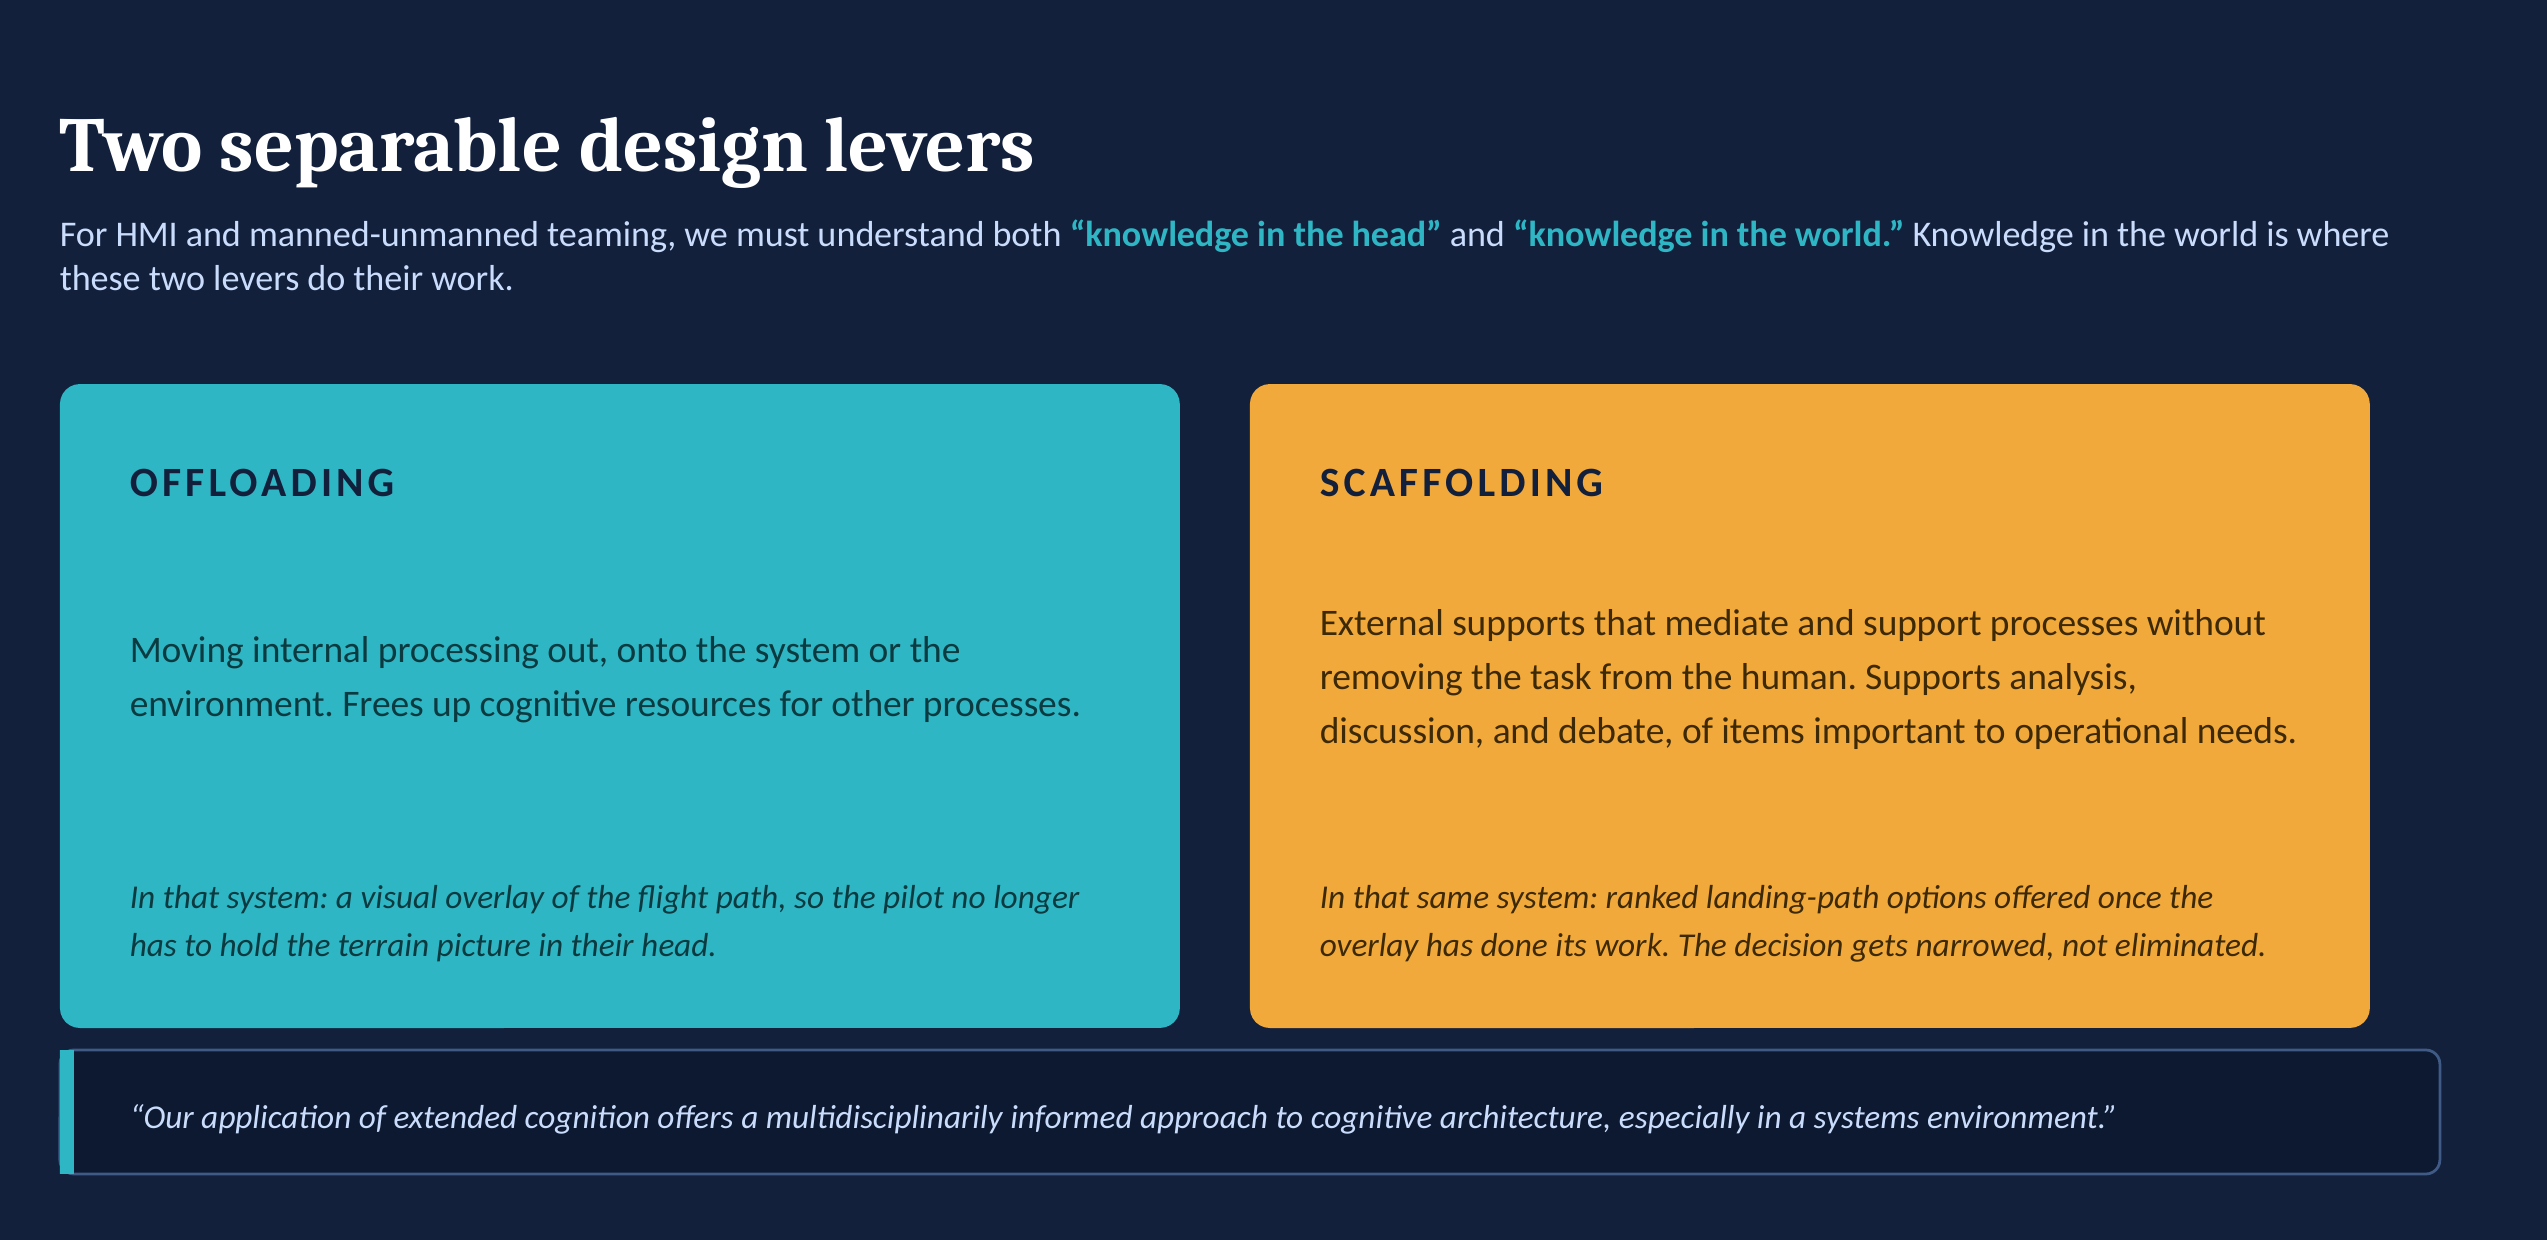
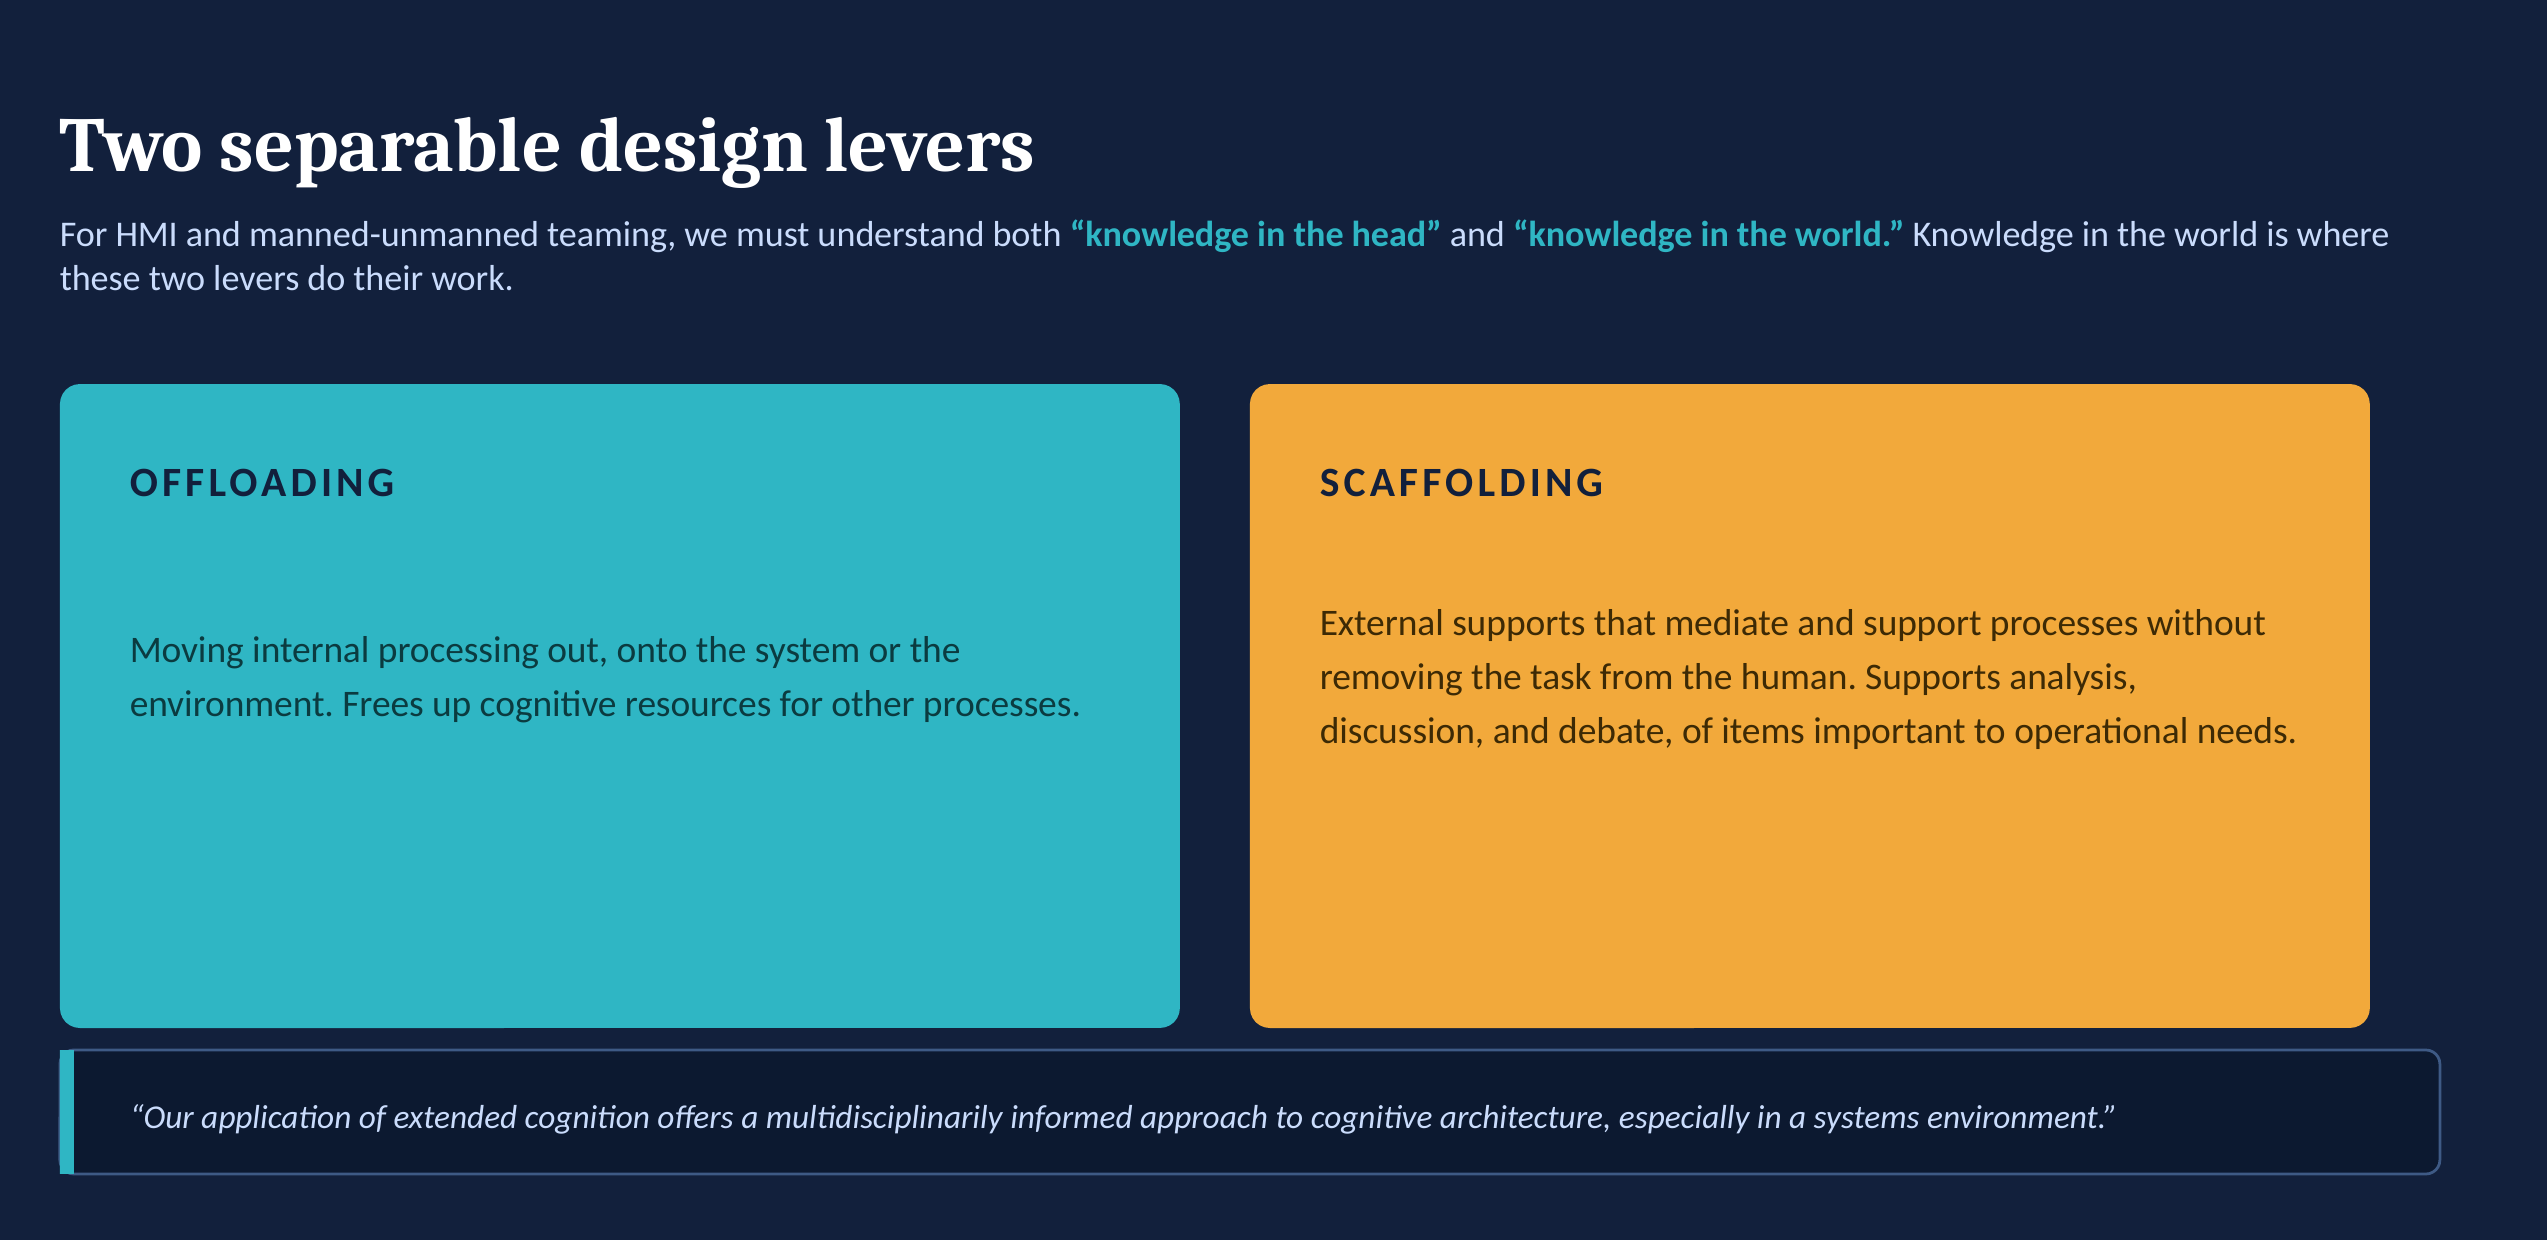
Site fixes from review: accessibility, slide, photos, triathlon post
- Phone menu: white focus ring, closes when focus leaves it
- Lockheed animation: Skip control while playing
- Remove two system-specific lines from the design levers slide
- Remove a leftover draft comment on Experience
- Page titles include the site name; aria-current on nav links
- Quieter "On this page" bar for screen readers; GitHub spelling
- Resize homepage and avatar photos (4.6 MB and 2.6 MB to under 150 KB)
- Stoic Cycle list: "+" marker in line with post titles
- Triathlon post: three typos fixed, spoiler is a keyboard-usable button

Claude-Session: https://claude.ai/code/session_01Be8Di5gqHytWBQBqRkoQzy

Changed region(s): [[0.5273, 0.7048, 0.8685, 0.7661], [0.062, 0.7048, 0.4342, 0.7661]]

diff --git a/the-stoic-cycle/index.html b/the-stoic-cycle/index.html
@@ -100,9 +100,13 @@ permalink: /the-stoic-cycle/
   .stoic-archive .post-entry summary {
     cursor: pointer;
     list-style: none;
-    display: flex;
-    flex-direction: column;
-    gap: 0.15rem;
+    display: grid;
+    grid-template-columns: 1.4rem 1fr;
+    row-gap: 0.15rem;
+    align-items: baseline;
+  }
+  .stoic-archive .post-entry summary > * {
+    grid-column: 2;
   }
   .stoic-archive .post-entry summary::-webkit-details-marker {
     display: none;
@@ -126,7 +130,6 @@ permalink: /the-stoic-cycle/
   .stoic-archive .post-date {
     font-size: 0.72rem;
     color: var(--text-alt-color);
-    margin-left: 1.4rem;
   }
   .stoic-archive .post-summary {
     font-size: 0.85rem;

diff --git a/_includes/head.html b/_includes/head.html
@@ -3,7 +3,7 @@
   <meta http-equiv="X-UA-Compatible" content="IE=edge">
   <meta name="viewport" content="width=device-width, initial-scale=1">
 
-  <title>{% if page.title %}{{ page.title }}{% else %}{{ site.data.settings.title }}{% endif %}</title>
+  <title>{% if page.title and page.url != "/" %}{{ page.title }} – {{ site.data.settings.title }}{% else %}{{ site.data.settings.title }}{% endif %}</title>
   <meta name='description' content='{% if page.description %}{{ page.description | strip_html | strip_newlines | truncate: 160 }}{% else %}{{ site.data.settings.description }}{% endif %}'>
 
   <link rel="canonical" href="{{ page.url | replace:'index.html','' | absolute_url }}">

diff --git a/js/common.js b/js/common.js
@@ -49,6 +49,13 @@ document.addEventListener("DOMContentLoaded", function() {
     menuToggle.setAttribute("aria-expanded", menuList.classList.contains("is-visible") ? "true" : "false");
   }
 
+  // Close the phone menu when keyboard focus moves outside it
+  document.addEventListener("focusin", function (e) {
+    if (menuList.classList.contains("is-visible") && !menuList.contains(e.target) && !menuToggle.contains(e.target)) {
+      menu();
+    }
+  });
+
   // Close the phone menu with Escape and return focus to the menu button
   document.addEventListener("keydown", function (e) {
     if (e.key === "Escape" && menuList.classList.contains("is-visible")) {

diff --git a/css/main.scss b/css/main.scss
@@ -147,12 +147,23 @@ Spoiler Tagging
 ======================= */
 
 .spoiler {
-  background-color: black;
-  color: black;
+  /* A real button now, so keyboard users can reveal it (Oct 2026) */
+  appearance: none;
+  border: 0;
+  margin: 0;
+  font: inherit;
+  line-height: inherit;
+  background-color: var(--heading-font-color);
+  color: var(--heading-font-color);
   cursor: pointer;
   border-radius: 3px;
   padding: 0 4px;
   transition: all 0.3s ease;
+}
+
+.spoiler:focus-visible {
+  outline: 2px solid var(--brand-color);
+  outline-offset: 2px;
 }
 
 .spoiler.revealed {

diff --git a/_includes/header.html b/_includes/header.html
@@ -34,7 +34,7 @@
               </li>
               {% else %}
               <li class="nav__item">
-                <a href="{{ item.url | relative_url }}" class="nav__link{% if page.url == item.url %} active-link{% endif %}">{{ item.title }}</a>
+                <a href="{{ item.url | relative_url }}" class="nav__link{% if page.url == item.url %} active-link{% endif %}"{% if page.url == item.url %} aria-current="page"{% endif %}>{{ item.title }}</a>
               </li>
               {% endif %}
               {% endfor %}

diff --git a/_includes/page-nav.html b/_includes/page-nav.html
@@ -8,7 +8,7 @@
   <div class="pagenav__bar">
     <button type="button" class="pagenav__toggle" aria-expanded="false" aria-controls="pagenav-list">
       <span class="pagenav__kicker">On this page</span>
-      <span class="pagenav__current" aria-live="polite"></span>
+      <span class="pagenav__current"></span>
       <i class="fa-solid fa-chevron-down pagenav__chev" aria-hidden="true"></i>
     </button>
   </div>

diff --git a/css/_3-modules/header-social.scss b/css/_3-modules/header-social.scss
@@ -273,3 +273,13 @@ h3.single-link__title {
 .content:focus {
   outline: none;
 }
+
+/* Focus rings inside the green phone menu must be white to be visible */
+@media (max-width: $desktop) {
+  .main-nav .nav-buttons .toggle-theme:focus-visible,
+  .main-nav .header-social a:focus-visible,
+  .main-nav .nav__link:focus-visible {
+    outline: 2px solid var(--white);
+    outline-offset: 2px;
+  }
+}

diff --git a/_pages/case-study-lockheed.md b/_pages/case-study-lockheed.md
@@ -51,22 +51,38 @@ I could have treated workload as one thing to measure and minimize. Instead I ap
   var end = img.getAttribute('data-end');
   var LENGTH = 6200; /* the GIF is 120 frames at 50 ms and plays once */
   var timer;
+  var playing = false;
+  var icon = btn.querySelector('i');
+
+  function setButton(text, iconClass) {
+    label.textContent = text;
+    icon.className = 'fa-solid ' + iconClass;
+    btn.hidden = false;
+  }
+
+  function finish() {
+    clearTimeout(timer);
+    playing = false;
+    img.src = end;
+    setButton('Replay', 'fa-rotate-right');
+  }
 
   function play() {
     clearTimeout(timer);
+    playing = true;
     img.src = gif + '?play=' + Date.now(); /* new URL restarts the GIF */
-    btn.hidden = true;
-    timer = setTimeout(function () { label.textContent = 'Replay'; btn.hidden = false; }, LENGTH);
+    /* A Skip control while it plays, so the motion can always be stopped */
+    setButton('Skip', 'fa-forward');
+    timer = setTimeout(finish, LENGTH);
   }
 
-  btn.addEventListener('click', play);
+  btn.addEventListener('click', function () { playing ? finish() : play(); });
 
   var reduce = window.matchMedia && window.matchMedia('(prefers-reduced-motion: reduce)').matches;
   if (reduce || !('IntersectionObserver' in window)) {
     /* No autoplay. Show the end state and let the reader start it. */
     img.src = end;
-    label.textContent = 'Play animation';
-    btn.hidden = false;
+    setButton('Play animation', 'fa-play');
     return;
   }
 

diff --git a/_pages/experience.md b/_pages/experience.md
@@ -114,7 +114,6 @@ page_nav: true
 
 </div>
 
-<!-- DRAFT for Giovani's review: Orlando Health entry. Wording taken from page 3 of GDA 2026 Case Studies.pdf. Not in experience-tab-v2.md. -->
 <div class="exp-entry" markdown="1">
 
 ### Quality Assurance Program and Epic EHR Launch
